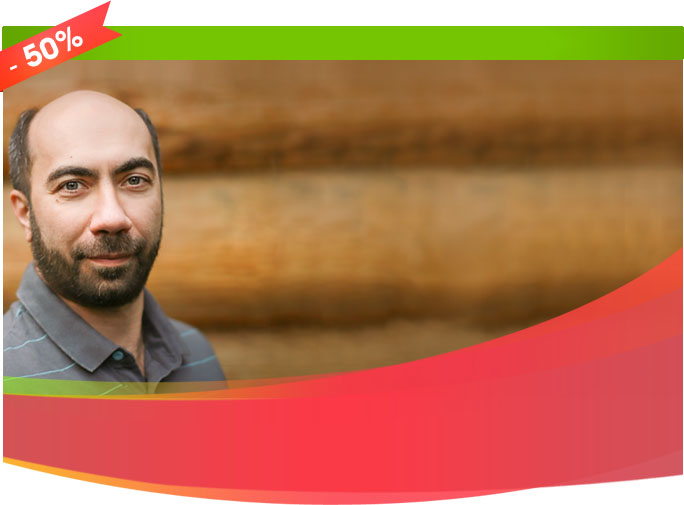
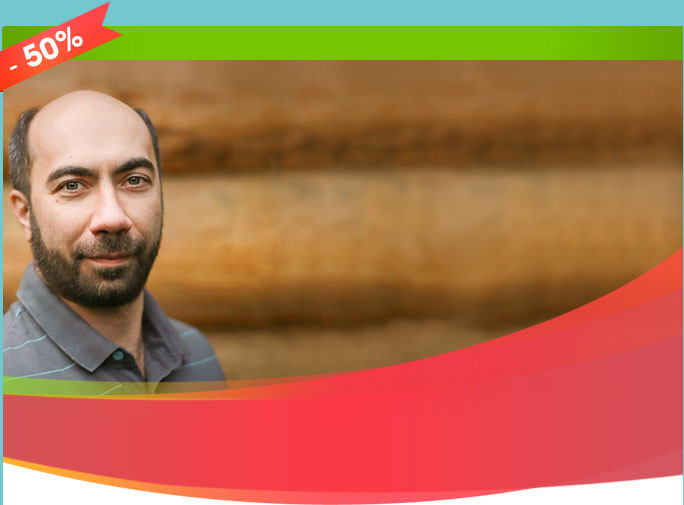
100 дней фон

Changed region(s): [[0.0, 0.0, 1.0, 0.0594], [0.0, 0.1782, 0.0307, 1.0]]

diff --git a/letter100days/letter100days.php b/letter100days/letter100days.php
@@ -3,8 +3,8 @@
 	<head>
 		<meta http-equiv="Content-Type" content="text/html; charset=utf-8" >
 	</head>
-	<body style="padding:0; margin:0; font-family:Arial, sans-serif">
-		<div class="container" style="width: 685px;">
+	<body style="padding:0; margin:0; font-family:Arial, sans-serif; width: 100%; background: url(http://markup.beta.software-dowlatow.ru/letter100days/bg.png)">
+		<div class="container" style="width: 684px; margin:auto;">
 			<div class="top" style="background: url(http://markup.beta.software-dowlatow.ru/letter100days/bg-top.jpg) no-repeat; height: 505px;">
 				<div class="title" style="font-family: sans-serif; color: #ffffff; font-size: 16px; font-weight: 400; text-align: center; line-height: 48px; padding-top: 20px;">
 					Проект «100 трансформаций»
@@ -12,21 +12,23 @@
 				<div class="sale" style="background: url(http://markup.beta.software-dowlatow.ru/letter100days/sale.png) no-repeat; height: 240px; margin-top: 65px; margin-left: 260px;"><img src="http://markup.beta.software-dowlatow.ru/letter100days//blank.png" /></div>
 				<div class="hello" style="font-family: sans-serif; color: #ffffff; font-size: 28px; font-weight: 400; line-height: 12px; text-align: right; margin-top: 35px; margin-right: 50px;">Здравствуйте!<br><br><br><span style="font-size: 18px; line-height: 12px;">На связи Константин Довлатов</span></div>
 			</div>
-			<p style="font-family: sans-serif; color: #5c6770; font-size: 16px; font-weight: 400; line-height: 22px; text-align: center; margin: 40px 60px 0 60px;">
-				На днях я провёл небольшой опрос о ценности реинтеграций. Огромное спасибо всем участникам – он оказался неожиданно важным. <br><br>Я увидел, что многие хотят (а значит – могут) получать от реинтеграций пользу минимум на десятки тысяч рублей. Им мешает только одно. <br><br>Прямо сейчас у них нет возможности проходить «100 дней» с реинтеграциями.
-			</p>
-			<h1 style="font-family: sans-serif; color: #fa3b48; font-size: 22px; font-weight: 400; line-height: 18px; text-align: center; margin-top: 40px;">Но сейчас она появилась!</h1>
-			<a href="http://markup.beta.software-dowlatow.ru/100days_special/"class="button-1" style="display: block; background: url(http://markup.beta.software-dowlatow.ru/letter100days/buttonn.png); width:604px; border-radius: 8px; -moz-border-radius: 8px; -o-border-radius: 8px; -webkit-border-radius: 8px; text-decoration: none; box-sizing:border-box; -moz-box-sizing:border-box; border-bottom:solid 2px #5c8a1a; font-family: sans-serif; color:  #ffffff; font-size: 18px; font-weight: 400; line-height: 18px; text-align: center; margin: 20px auto; padding: 20px;">Воспользуйтесь своим шансом пройти все реинтеграции</a>
-			<div class="results" style="background: url(http://markup.beta.software-dowlatow.ru/letter100days/bg-results.png) no-repeat; margin-top: 30px; padding-top: 55px; padding-bottom: 40px;">
-				<p style="font-family: sans-serif; color: #5c6770; font-size: 16px; font-weight: 400; line-height: 22px; text-align: center; margin: 0 80px;">Я хочу, чтобы реинтеграции помогали как можно большему числу людей. Созданы они именно для этого. И у меня возникла идея. Маркетолог едва не поседел, когда её услышал. Он твердил, что с таким подходом я просто разорюсь, но я настоял на своём. <br><br><span style="color: #030917; font-size: 22px;">Итак…</span></p>
-				<div class="result" style="background: url(http://markup.beta.software-dowlatow.ru/letter100days/result.png) no-repeat; height: 120px; margin-top: 35px; margin-left: 80px;"><img src="http://markup.beta.software-dowlatow.ru/letter100days//blank.png" /></div>
+			<div style="background:#fff; width:680px; position: relative; margin-left: 3px; padding-top:5px">
+				<p style="font-family: sans-serif; color: #5c6770; font-size: 16px; font-weight: 400; line-height: 22px; text-align: center; margin: 40px 60px 0 60px;">
+					На днях я провёл небольшой опрос о ценности реинтеграций. Огромное спасибо всем участникам – он оказался неожиданно важным. <br><br>Я увидел, что многие хотят (а значит – могут) получать от реинтеграций пользу минимум на десятки тысяч рублей. Им мешает только одно. <br><br>Прямо сейчас у них нет возможности проходить «100 дней» с реинтеграциями.
+				</p>
+				<h1 style="font-family: sans-serif; color: #fa3b48; font-size: 22px; font-weight: 400; line-height: 18px; text-align: center; margin-top: 40px;">Но сейчас она появилась!</h1>
+				<a href="http://markup.beta.software-dowlatow.ru/100days_special/"class="button-1" style="display: block; background: url(http://markup.beta.software-dowlatow.ru/letter100days/buttonn.png); width:604px; border-radius: 8px; -moz-border-radius: 8px; -o-border-radius: 8px; -webkit-border-radius: 8px; text-decoration: none; box-sizing:border-box; -moz-box-sizing:border-box; border-bottom:solid 2px #5c8a1a; font-family: sans-serif; color:  #ffffff; font-size: 18px; font-weight: 400; line-height: 18px; text-align: center; margin: 20px auto; padding: 20px;">Воспользуйтесь своим шансом пройти все реинтеграции</a>
+				<div class="results" style="background: url(http://markup.beta.software-dowlatow.ru/letter100days/bg-results.png) no-repeat; margin-top: 30px; padding-top: 55px; padding-bottom: 40px;">
+					<p style="font-family: sans-serif; color: #5c6770; font-size: 16px; font-weight: 400; line-height: 22px; text-align: center; margin: 0 80px;">Я хочу, чтобы реинтеграции помогали как можно большему числу людей. Созданы они именно для этого. И у меня возникла идея. Маркетолог едва не поседел, когда её услышал. Он твердил, что с таким подходом я просто разорюсь, но я настоял на своём. <br><br><span style="color: #030917; font-size: 22px;">Итак…</span></p>
+					<div class="result" style="background: url(http://markup.beta.software-dowlatow.ru/letter100days/result.png) no-repeat; height: 120px; margin-top: 35px; margin-left: 80px;"><img src="http://markup.beta.software-dowlatow.ru/letter100days//blank.png" /></div>
+				</div>
+				<a href="http://club.dowlatow.ru/account/checkout/?level=25"class="button-2" style="display: block; background: url(http://markup.beta.software-dowlatow.ru/letter100days/buttonn.png); width:604px; border-radius: 8px; -moz-border-radius: 8px; -o-border-radius: 8px; -webkit-border-radius: 8px; text-decoration: none; box-sizing:border-box; -moz-box-sizing:border-box; border-bottom:solid 2px #5c8a1a; font-family: sans-serif; color:  #ffffff; font-size: 18px; font-weight: 400; line-height: 18px; text-align: center; margin: 55px auto; padding: 20px">Получить скидку и пройти сегодняшнюю реинтеграцию</a>
+				<div class="signature" style="font-family: sans-serif; color: #030917; font-size: 22px; font-weight: 400; line-height: 12px; text-align: center; margin-top: 50px;">С любовью и уважением, <br><br><span style="font-family: sans-serif; color: #fa3b48; font-size: 20px; font-weight: 400; line-height: 12px; text-align: center;">Константин Довлатов</span></div>
+				<hr style="color: #f7f7f7; size: 1px; width: 575px; margin-top: 45px"></hr>
+				<div class="ps" style="color:  #030917; font-size: 14px; font-style: italic; letter-spacing: 0.35px; line-height: 22px; text-align: center; margin-top: 35px;">P.S. <span style="color:  #5c6770;">Чтобы получить скидку, <a href="http://club.dowlatow.ru/wp-login.php" style="color: #70bb02;">авторизуйтесь</a> на сайте “100 дней”</span></div>
+				<p style="font-family: sans-serif; color: #030917; font-size: 18px; font-weight: 400; line-height: 48px; text-align: center; margin-bottom:0;">«<span style="font-size: 22px;">100</span> дней»</p>
 			</div>
-			<a href="http://club.dowlatow.ru/account/checkout/?level=25"class="button-2" style="display: block; background: url(http://markup.beta.software-dowlatow.ru/letter100days/buttonn.png); width:604px; border-radius: 8px; -moz-border-radius: 8px; -o-border-radius: 8px; -webkit-border-radius: 8px; text-decoration: none; box-sizing:border-box; -moz-box-sizing:border-box; border-bottom:solid 2px #5c8a1a; font-family: sans-serif; color:  #ffffff; font-size: 18px; font-weight: 400; line-height: 18px; text-align: center; margin: 55px auto; padding: 20px">Получить скидку и пройти сегодняшнюю реинтеграцию</a>
-			<div class="signature" style="font-family: sans-serif; color: #030917; font-size: 22px; font-weight: 400; line-height: 12px; text-align: center; margin-top: 50px;">С любовью и уважением, <br><br><span style="font-family: sans-serif; color: #fa3b48; font-size: 20px; font-weight: 400; line-height: 12px; text-align: center;">Константин Довлатов</span></div>
-			<hr style="color: #f7f7f7; size: 1px; width: 575px; margin-top: 45px"></hr>
-			<div class="ps" style="color:  #030917; font-size: 14px; font-style: italic; letter-spacing: 0.35px; line-height: 22px; text-align: center; margin-top: 35px;">P.S. <span style="color:  #5c6770;">Чтобы получить скидку, <a href="http://club.dowlatow.ru/wp-login.php" style="color: #70bb02;">авторизуйтесь</a> на сайте “100 дней”</span></div>
-			<p style="font-family: sans-serif; color: #030917; font-size: 18px; font-weight: 400; line-height: 48px; text-align: center;">«<span style="font-size: 22px;">100</span> дней»</p>
-			<div class="bottom" style="background: url(http://markup.beta.software-dowlatow.ru/letter100days/bottom.png) no-repeat;"></div>
+			<div class="bottom" style="width:680px; position: relative; margin-left: 3px; height: 10px; background: url(http://markup.beta.software-dowlatow.ru/letter100days/bottom.png); margin-bottom:20px"></div>
 		</div>
 	</body>
 </html>
